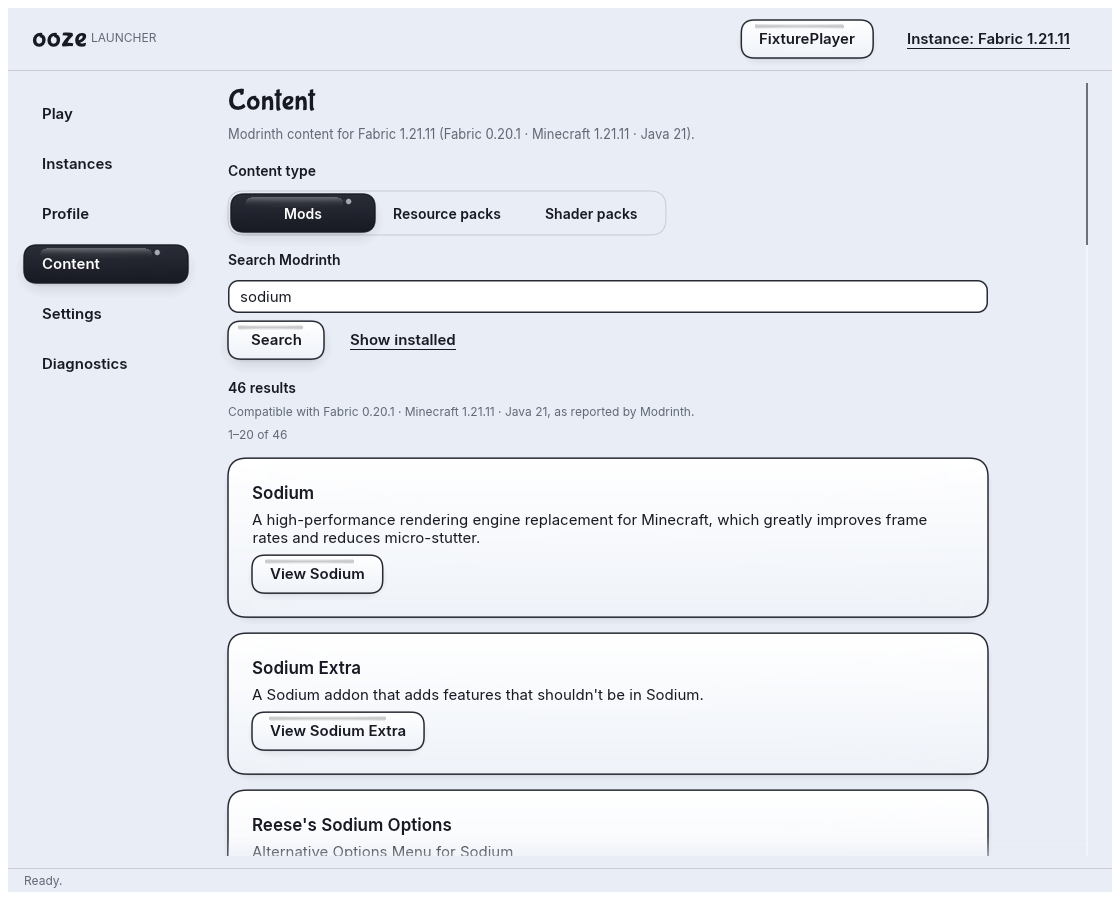
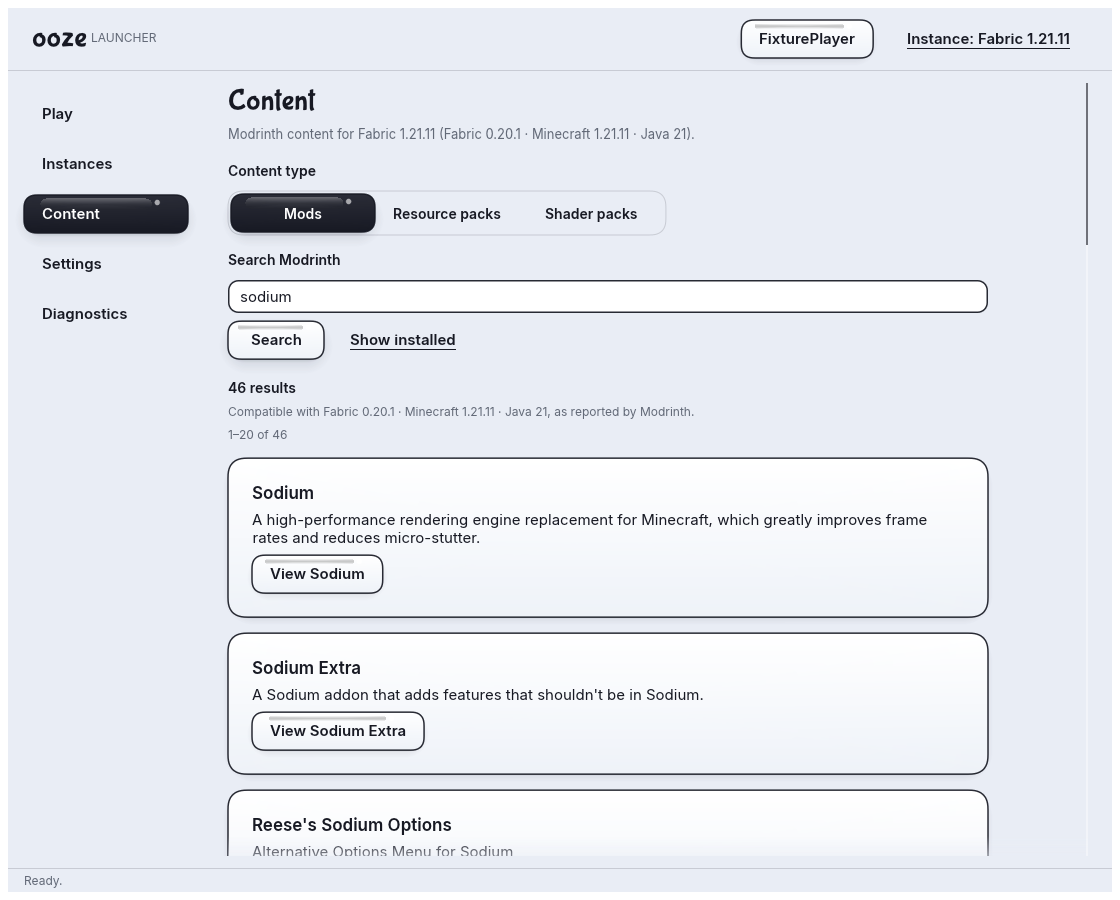
feat(launcher-ui): take capabilities from Sol's library; hide module switches until the game runs modules
Claude-Session: https://claude.ai/code/session_01YXut55d3zp7jHe4ABtTPgh

Changed region(s): [[0.0, 0.2178, 0.1875, 0.3733], [0.0312, 0.4044, 0.0938, 0.4356]]

diff --git a/launcher/crates/ooze-launcher-ui/src/core_library.rs b/launcher/crates/ooze-launcher-ui/src/core_library.rs
@@ -5,7 +5,9 @@
 //! operations, reported as one), replies map to typed payloads, and errors keep the library's safe
 //! message. **Capabilities report only what Sol's API supports today**; everything else stays
 //! hidden in the interface:
-//! - themes: off until the library persists `ooze.theme/1` (CLAUDE-P0-request R1);
+//! - profiles (module switches): off until the library reports runtime modules (the game can't
+//!   run any before M0; Real or absent);
+//! - themes: off until the library persists `ooze.theme/1` (CLAUDE-P0-request G1);
 //! - data packs: off until the library lists an instance's worlds;
 //! - search sort and categories: off;
 //! - switching to Managed Fair Play: off (the library offers only conversion to Custom).
@@ -41,6 +43,7 @@ enum Pending {
 
 pub struct CoreLibrary {
     lib: sl::Library,
+    caps: sl::Capabilities,
     raw: sl::Snapshot,
     snap: LibrarySnapshot,
     /// (library operation, interface operation, what it was).
@@ -65,9 +68,11 @@ impl CoreLibrary {
     pub fn open(data_dir: &Path) -> Result<Self, LibError> {
         let lib = sl::Library::open(data_dir).map_err(|e| map_error(&e))?;
         let raw = lib.snapshot();
-        let snap = map_snapshot(&raw);
+        let caps = lib.capabilities();
+        let snap = map_snapshot(&raw, &caps);
         Ok(Self {
             lib,
+            caps,
             raw,
             snap,
             pending: None,
@@ -93,7 +98,7 @@ impl CoreLibrary {
 
     fn refresh(&mut self) {
         self.raw = self.lib.snapshot();
-        let snap = map_snapshot(&self.raw);
+        let snap = map_snapshot(&self.raw, &self.caps);
         if snap != self.snap {
             self.snap = snap.clone();
             self.out.push_back(LibEvent::Changed(snap));
@@ -564,20 +569,29 @@ pub fn to_core_target(t: &GameTarget) -> sl::Target {
     }
 }
 
-/// Content kinds this library can install for a target: Modrinth's loader-specific kinds need
-/// Fabric; data packs wait for a world list (see module docs).
-fn kinds_for(t: &sl::Target) -> Vec<ContentKind> {
-    match t.loader {
-        sl::Loader::Fabric => vec![
-            ContentKind::Mod,
-            ContentKind::ResourcePack,
-            ContentKind::Shader,
-        ],
-        _ => vec![ContentKind::ResourcePack],
-    }
+/// Content kinds the interface can offer: the library's kinds, without data packs until the
+/// library lists an instance's worlds (the interface never reads the saves folder itself).
+fn offered_kinds(caps: &sl::Capabilities) -> Vec<ContentKind> {
+    caps.content_kinds
+        .iter()
+        .map(|k| from_core_kind(*k))
+        .filter(|k| *k != ContentKind::DataPack)
+        .collect()
 }
 
-pub fn map_snapshot(raw: &sl::Snapshot) -> LibrarySnapshot {
+/// Per instance: mods and shader packs need a mod loader (shaders need Iris, a Fabric mod).
+fn kinds_for(t: &sl::Target, offered: &[ContentKind]) -> Vec<ContentKind> {
+    offered
+        .iter()
+        .copied()
+        .filter(|k| {
+            t.loader != sl::Loader::Vanilla || !matches!(k, ContentKind::Mod | ContentKind::Shader)
+        })
+        .collect()
+}
+
+pub fn map_snapshot(raw: &sl::Snapshot, caps: &sl::Capabilities) -> LibrarySnapshot {
+    let offered = offered_kinds(caps);
     let instances = raw
         .instances
         .iter()
@@ -605,7 +619,7 @@ pub fn map_snapshot(raw: &sl::Snapshot) -> LibrarySnapshot {
                 mode,
                 install: None,
                 actions,
-                content: kinds_for(&i.target),
+                content: kinds_for(&i.target, &offered),
                 running: false,
                 revision: i.revision,
                 game_dir: s.game_dir.clone(),
@@ -614,18 +628,18 @@ pub fn map_snapshot(raw: &sl::Snapshot) -> LibrarySnapshot {
         .collect();
     LibrarySnapshot {
         capabilities: LibraryCapabilities {
-            create: vec![
-                from_core_target(&sl::Target::fabric()),
-                from_core_target(&sl::Target::vanilla()),
-            ],
+            // Fabric (with Ooze) first: it's the product's main target.
+            create: {
+                let mut t: Vec<GameTarget> = caps.targets.iter().map(from_core_target).collect();
+                t.sort_by_key(|t| !t.ooze);
+                t
+            },
             instances: true,
-            profiles: true,
+            // Real or absent: module switches appear only once the game can run modules
+            // (`runtime_modules` from the library; empty until M0).
+            profiles: !caps.runtime_modules.is_empty(),
             themes: false,
-            content: vec![
-                ContentKind::Mod,
-                ContentKind::ResourcePack,
-                ContentKind::Shader,
-            ],
+            content: offered,
             managed_mode: false,
             sort: false,
         },
@@ -804,7 +818,11 @@ mod tests {
         let dir = temp_dir("roundtrip");
         let mut lib = CoreLibrary::open(&dir).unwrap();
         let caps = lib.snapshot().capabilities;
-        assert!(caps.instances && caps.profiles);
+        assert!(caps.instances);
+        assert!(
+            !caps.profiles,
+            "no module switches before the game can run modules"
+        );
         assert!(
             !caps.themes,
             "hidden until the library persists ooze.theme/1"

diff --git a/launcher/crates/ooze-launcher-ui/src/library_ui_tests.rs b/launcher/crates/ooze-launcher-ui/src/library_ui_tests.rs
@@ -860,15 +860,8 @@ fn live_window_shows_real_modrinth_results_for_a_fabric_instance() {
     h.run_steps(6);
     assert_eq!(
         tabs(&h),
-        [
-            "Play",
-            "Instances",
-            "Profile",
-            "Content",
-            "Settings",
-            "Diagnostics"
-        ],
-        "Appearance stays hidden until the library persists ooze.theme/1"
+        ["Play", "Instances", "Content", "Settings", "Diagnostics"],
+        "Profile waits for runtime modules; Appearance for ooze.theme/1"
     );
     go(&mut h, "Content");
     search(&mut h, "sodium");

diff --git a/docs/handoffs/CLAUDE-P0.md b/docs/handoffs/CLAUDE-P0.md
@@ -72,9 +72,9 @@ Files and changes:
 **8. L1 started: the real library is attached** (Sol pushed `ac9a7ba`/`d48e88d` during P0).
 - `core_library.rs` adapts `ooze_launcher_core::library` to the interface types. A project's details take two library operations and are reported as one; profile load and the installed list are answered from Sol's snapshot.
 - `bin/ooze-launcher.rs` opens the library with the launcher's data directory. If opening fails, a `FailedLibrary` shows the error on the Instances page.
-- **Capabilities report only what Sol's API supports today:**
+- **Capabilities come from Sol's `Library::capabilities()` and report only what is real today:**
   - instances: create Fabric 0.20.1 / Vanilla on 1.21.11, select, rename, duplicate, archive, convert Managed → Custom;
-  - profiles: load and save with a revision check, validated by Sol with `ooze-ui`;
+  - **profiles are hidden** until `runtime_modules` is non-empty. The game can't run any module before M0, so module switches would be decorative (Real or absent; this agrees with Sol's SOL-L1). The adapter still maps load and save, with a revision check; that is tested;
   - content: mods, resource packs and shader packs; search, details and versions; dependency plan; apply; installed list; enable/disable/remove;
   - integrity: verify.
 
@@ -117,8 +117,8 @@ Files and changes:
 | `launcher` workspace: `cargo clippy --workspace --all-targets -D warnings` on Linux | **Fails in Sol's `ooze-launcher-core`** (`game_guard.rs:63`, unused test import on non-Windows). This is pre-existing and not from this change (R5) |
 | `ooze-launcher-ui` over **Sol's real library**, Linux, no network: `the_real_library_round_trips_through_the_interface_types` (create → select → profile save with revision check → installed list → rename → archive); `unsupported_combinations_are_refused_by_the_library_with_its_reason` | **Headless-tested** (Linux) |
 | **Live Modrinth**, Linux, `--ignored`: `live_modrinth_search_details_plan_install_and_verify` | **Headless-tested** (Linux, real network). Real search returned results for mods (20 of 13,242), resource packs (20 of 18,947) and shader packs (20 of 766). Iris details and versions were read. The plan was `sodium-fabric-0.8.14+mc1.21.11.jar` (required) plus `iris-fabric-1.10.8+mc1.21.11.jar` (selected). Apply downloaded and verified both (SHA-512), the installed list shows 2 items, and the integrity check reports 0 issues in 2 files. **This is not Game-launched: no Minecraft started** |
[1 lines of base64/hex data omitted]
-| `launcher` workspace after merging Sol's library: `cargo test --workspace` | **Headless-tested** (Linux): 119 passed, 0 failed, 2 ignored (the live tests) |
[1 lines of base64/hex data omitted]
+| `launcher` workspace after merging Sol's library (through `e36cbb2`): `cargo test --workspace` | **Headless-tested** (Linux): 122 passed, 0 failed, 2 ignored (the live tests) |
 | Windows: launcher type-check for `x86_64-pc-windows-msvc` | **Not run locally:** `ring` (Sol's TLS dependency) needs the MSVC C toolchain. Sol's Windows CI (`launcher-l0.yml`, `cargo test --workspace` on windows-latest, dx12) is the Windows evidence after this push |
 | Gradle / Fabric | Not run: no Java, Gradle or game changes in P0 |
 | Game-launched | **None.** Nothing Minecraft-facing changed; no module runs in game yet (M0+) |
@@ -156,6 +156,16 @@ Files and changes:
 - The 130 % text size was checked only in unit tests (token sizes and control heights). No screenshot review at that size has been done yet.
 
 ## 6. Review of Sol's latest changes
+
+**`e36cbb2` / SOL-L1:**
+- Answers **R3**: on Select, the interface submits API 1 settings with `install_root = game_dir`, then Play. This matches Sol's "SaveSettings, await, then Install/Launch". The UI already does it on Select and never changes API 1 implicitly otherwise.
+- Adds `Library::capabilities()`, which the adapter now uses.
+- On the theme, Sol names its subset `ooze.launcher.theme/1` and asks me to "reconcile product copy". I keep **Appearance hidden** rather than ship a per-instance theme, for two reasons:
+  - ADR-017 (the appearance must not change with the selected instance);
+  - Sol's validator lacks the accent/on-accent contrast check.
+
+  G1 stands: one global `ooze.theme/1` through `ooze_ui::theme_doc`, which Sol already links.
+
 
 **`87c3e6c` (library contract, packaging):**
 - Correct: registering `ooze-launcher-ui` in the workspace, and removing my crate's standalone `[workspace]` table and lock.

diff --git a/docs/handoffs/CLAUDE-P0-request.md b/docs/handoffs/CLAUDE-P0-request.md
@@ -120,7 +120,7 @@ Kinds:
 
 Plus an optional **safe, already-redacted** `detail`. As you specified, provider bodies never become details.
 
-## R3. Play for the selected instance
+## R3. Play for the selected instance (answered in SOL-L1: `game_dir` through API 1 settings)
 
 The UI currently does this: on `Select`, if no game is live, it submits API 1 `UpdateSettings` with `install_root = instance.game_dir`. Then Play is unchanged.
 
